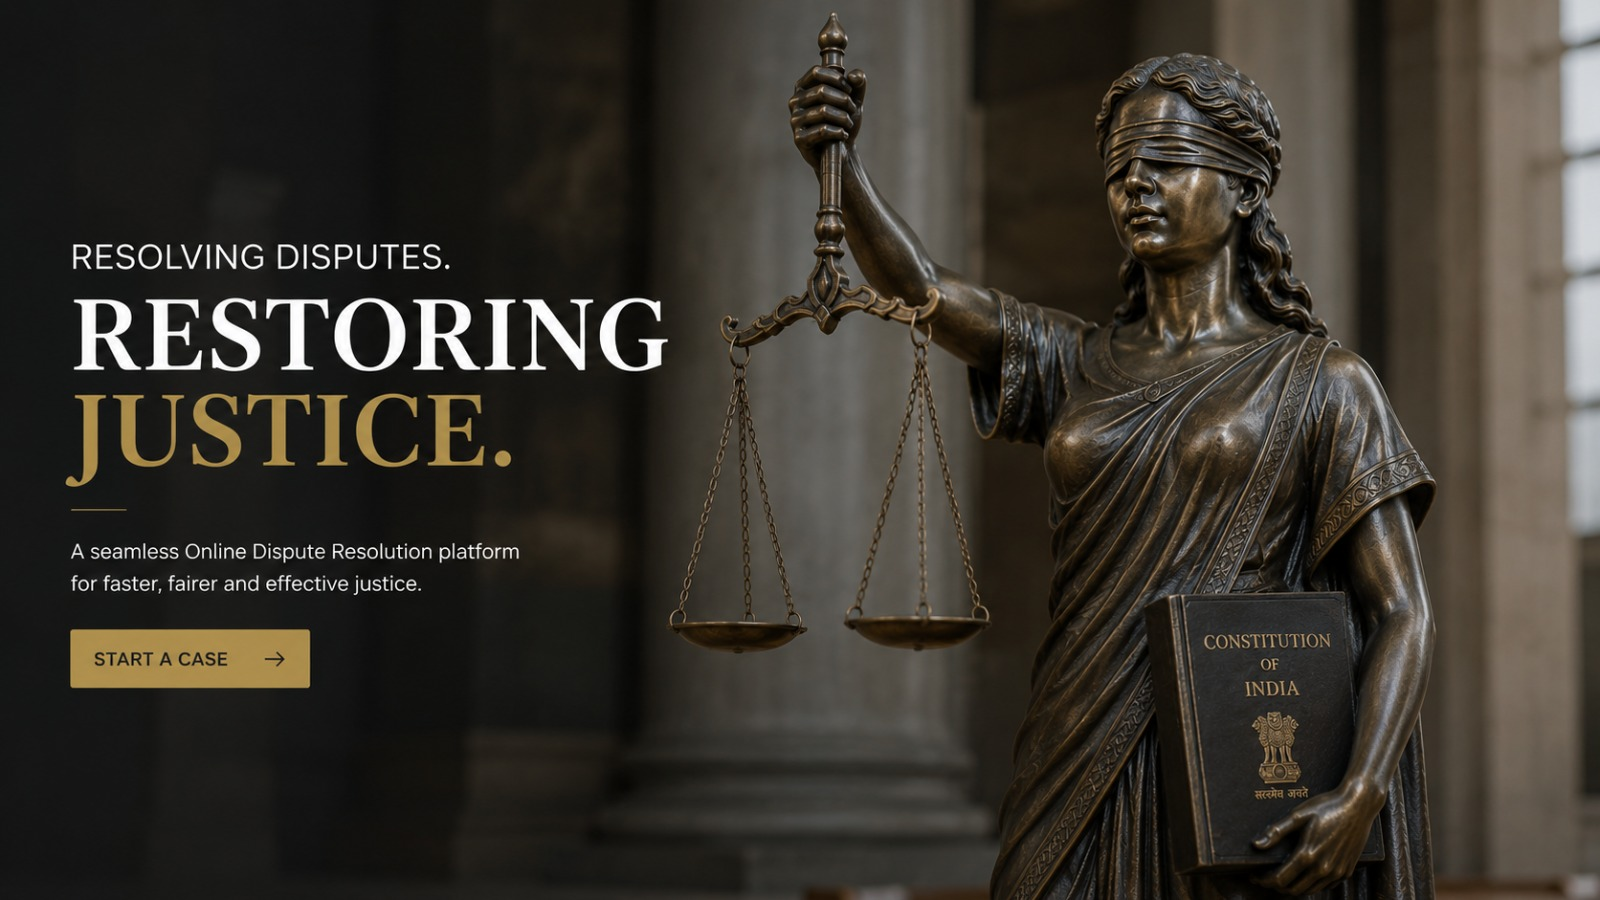
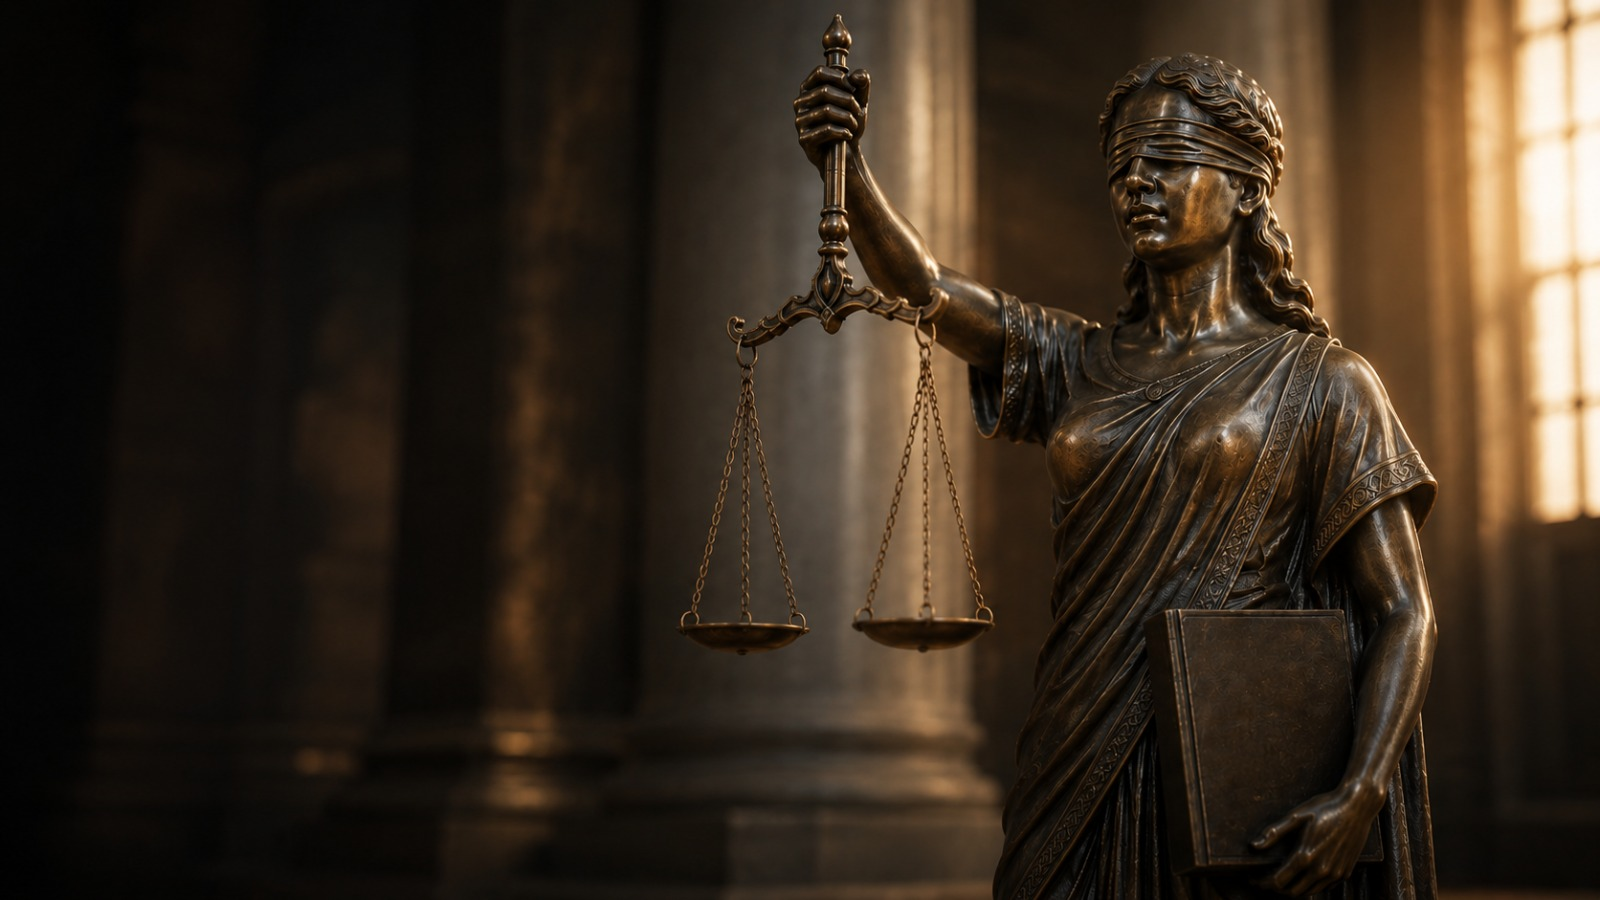
Image Issue Fixed

diff --git a/app/globals.css b/app/globals.css
@@ -299,7 +299,7 @@ td .strong{font-weight:600;color:var(--navy)}
 .hero-btn .arr{transition:transform .18s}
 .hero-btn:hover .arr{transform:translateX(4px)}
 .hero-visual{position:relative;min-height:540px}
-.hero-statue{position:absolute;inset:0;width:100%;height:100%;object-fit:cover;object-position:center top}
+.hero-statue{position:absolute;inset:0;width:100%;height:100%;object-fit:cover;object-position:center center}
 .hero-visual::before{content:"";position:absolute;inset:0;z-index:1;background:linear-gradient(90deg,var(--navy) 0%,rgba(15,23,42,.55) 14%,transparent 38%)}
 .hero .float-card{position:absolute;background:rgba(255,255,255,.97);border-radius:13px;padding:12px 15px;box-shadow:0 16px 40px -12px rgba(0,0,0,.55);display:flex;align-items:center;gap:11px;z-index:3}
 .hero .fc1{top:26px;right:26px}